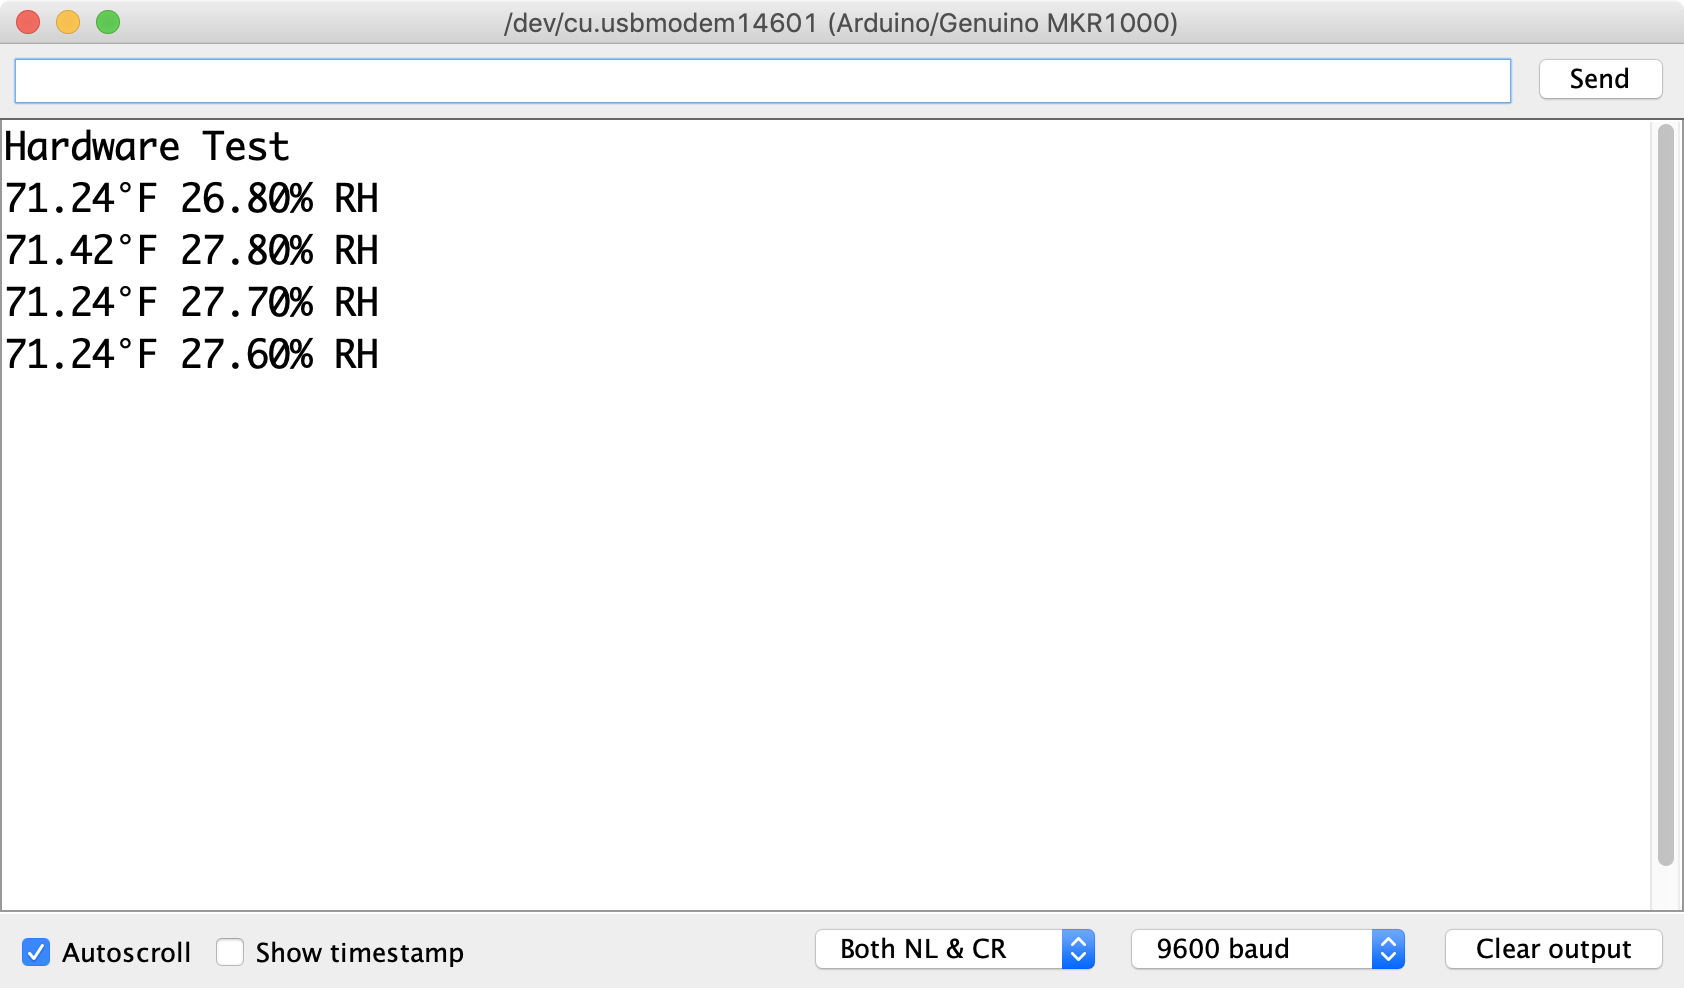
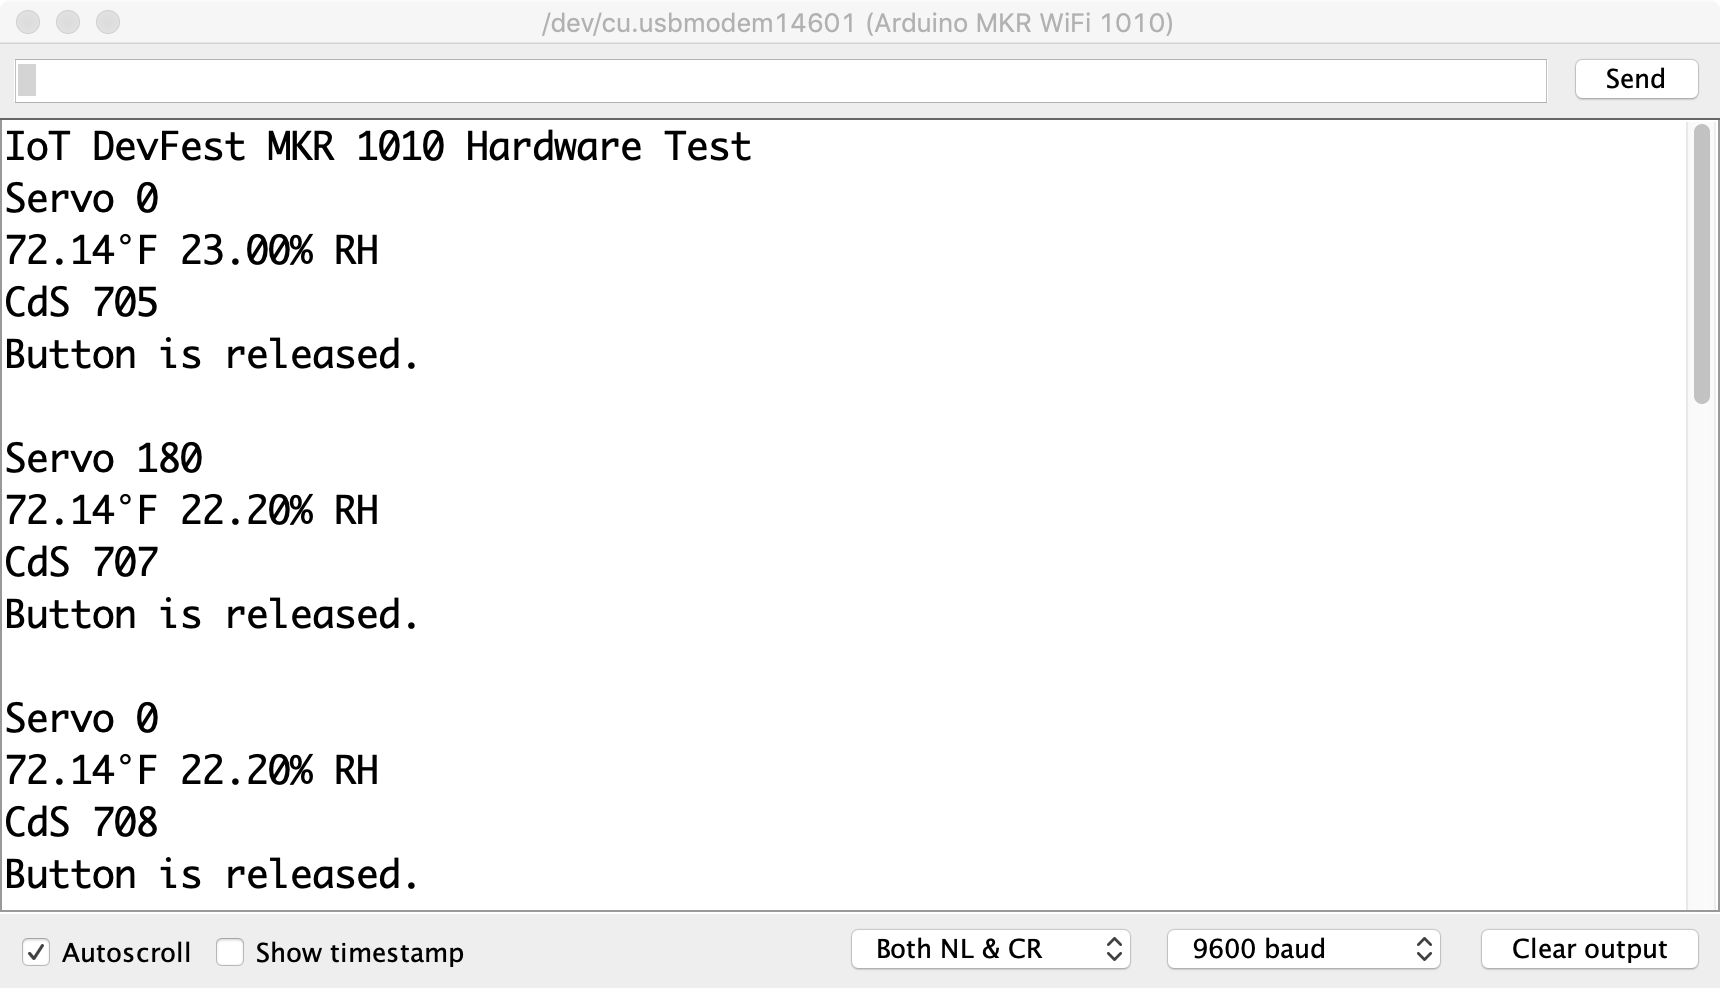
wiring from iot devfest

diff --git a/exercises/exercise2.md b/exercises/exercise2.md
@@ -1,5 +1,7 @@
 # Exercise 2: Assemble the Hardware
 
+Use the parts in the kit and assemble the hardware.
+
 ## Wiring
 
 ![Fritzing Diagram](images/wiring_bb.png)
@@ -7,17 +9,30 @@
 Suggested wiring instructions:
 
 1. Place the solderless breadboard with A1 on the bottom left.
-1. Plug the Arduino MKR WiFi 1000 into the breadboard with the 5V pin in C30.
-1. Plug the DHT-22 into J1.
-   * Use a red wire from the positive rail to F1
-   * Add a 10,000 &#937; resistor (brown, black, orange, gold) from the positive rail to F2.
-   * Place a black wire from the negative rail to F4
-   * Run a yellow wire from G2 to A18 which is pin 7 on the Arduino.
-1. Plug the LED into J9 and J10. Make sure the longer leg is in J10.
-   * Run a 220 &#937; or 330 &#937; resistor from the negative rail to F9
-   * Run a blue wire from F10 to A17 which is pin 6 on the Arduino.
-1. Run a black wire from A27 to the negative rail
-1. Run a red wire from A28 to the positive rail
+1. Plug the Arduino MKR WiFi 1010 into the breadboard with the 5V pin in B63.
+1. Plug the LED into E44 and E45. Make sure the longer leg is in E45.
+   * Run a 330 &#937; resistor (orange, orange, brown, gold) from the negative rail to D44.
+   * Run a blue wire from A45 to A50 which is pin 6 on the Arduino.
+1. Plug the CdS Photoresistor into G38 and G41.
+   * Use a red wire from the positive rail to F41.
+   * Put a 10,000 &#937; resistor (brown, black, orange, gold) from the negative rail to F38.
+   * Use a purple wire from I38 to J62 which is pin A0 on the Arduino.
+1. Plug the DHT-22 into J32.
+   * Use a red wire from the positive rail to F32.
+   * Put a 10,000 &#937; resistor (brown, black, orange, gold) from the positive rail to F33.
+   * Place a black wire from the negative rail to F35.
+   * Run a green wire from G33 to G53 which is pin 2 on the Arduino.
+1. Place a button into E25, E27, F25, and F27 on the breadboard.
+   * Use a red wire from the positive rail to A25.
+   * Use a yellow wire from G27 to J50 which is pin 5 on the Arduino.
+1. Pick up the Servo motor.
+   * Plug a black wire into the brown wire on the servo and connect it to the negative rail.
+   * Plug a red wire into the red wire on the servo and connect it to A63 which is the 5V pin on the Arduino.
+   * Plug an orange wire into the orange wire on the servo and connect it to A51 which is pin 7 on the Arduino.
+   * Note that only the servo is powered with 5 volts. Everything else uses 3.3 volts.
+1. Run a black wire from A60 to the negative rail.
+1. Run a red wire from the Arduino Vcc pin, A61, to the positive rail. The Vcc pin supplies 3.3 volts.
+
 
 ## Hardware Test
 
@@ -32,36 +47,6 @@ Suggested wiring instructions:
     * To restart the test, close the _Serial Monitor_ dialog and open it again.
 
 ![Arduino serial monitor with hardware test results](images/hardware-test.png)
-
-## Register MAC address with ITP Sandbox Network
-
-If you're using an Arduino from the ER you can skip this step. 
-
-In order to join the `itpsandbox` wireless network, the MAC address of the device must be registered with [NYU-NET](https://computer.registration.nyu.edu/). Use the [MacAddress sketch](../arduino/MacAddress/MacAddress.ino) to get the MAC address for your device. 
-
-[Tom Igoe's documentation](https://itp.nyu.edu/networks/tutorials/itp-network-connections/) has more details about the process.
-
-
-
-## Update TLS Certificates
-
-Skip this section if you're using a MKR WiFi 1010.
-
-The MKR1000 needs the root certifcates for any websites accessed via SSL. There is a utility to fetch and store these certificates.
-
-1. Open the WiFi101 FirmwareUpdater sketch _File -> Examples -> WiFi101 -> FirmwareUpdater_
-1. Upload the code to the board _Sketch -> Upload_
-1. Open the Firmware Updater _Tools -> WiFi101 / WiFiNINA Firmware Updater_
-1. Select the port of your MKR1000 in section 1
-1. Click the "Add Domain" button in section 3
-1. Enter "chariotday.com" and press the OK button
-1. Press the "Upload Certificates to WiFi module" button
-1. Wait for the success message
-
-![Arduino certificate tool screenshot](images/certificate-update.png)
-
-
-For more information see the Certificate Uploading section of the [WiFi101 Documentation](https://www.arduino.cc/en/Tutorial/FirmwareUpdater)
 
 ## Network Test
 

diff --git a/exercises/intro.md b/exercises/intro.md
@@ -1,0 +1,36 @@
+# Introduction
+
+Following the latest announcements at CES 2019, the leadership team of the company you are working at has asked you to prototype the hardware and firmware for a commercial grade smart toilet fleet. As usual, the sales team said they needed this system yesterday and there is huge customer demand for it from the Fortune 500 companies they are in contact with.
+
+![logo](images/logo.svg)
+
+The product manager in charge of the prototype has developed the following requirements:
+
+* Each smart toilet must connect over WiFi to a secure cloud environment
+* Push button flush (no one likes levers anymore, and cars have push button ignition)
+* Real-time statistics for temperature and humidity must be sent every 30 seconds (who doesn’t like fancy graphs).
+* Statistics on the number of flushes.
+* Remote flush and out of service control.
+
+There’s another team working on the backend system and dashboard, they’ve decided that the toilets need to use MQTT to communicate with backend. Along with certificate based TLS authorization (the de facto standard).
+
+Your colleagues at the local makerspace have suggested you use the new Arduino MKR WiFi 1010 for the prototype along with the following components:
+
+* MKR WiFi 1010
+  * Arduino’s latest WiFi enabled board, featuring 32 kB of RAM, 256 kB of flash, built-in WiFi, crypto chip on board!
+* Breadboard
+* Wires and resistors
+* LED
+* DHT-22 sensor
+* Photoresistor (for presence detection)
+* Servo (to control flushing).
+
+You haven’t used Arduino in a while, so first you decide to:
+
+* Acquaint yourself with the hardware and get the basics going
+* Learn how to connect the board to WiFi
+* Learn what MQTT is and how to connect your board to the server
+* Learn more about TLS and certificate based and how it applies
+* Combine everything together for a fully working prototype.
+
+Next [Exercise 1: Development Environment](exercise1.md)

diff --git a/README.md b/README.md
@@ -1,9 +1,10 @@
 # Arduino and MQTT
 
-Build an IoT device using an Arduino MKR1000 or Arduino MKR WiFi 1010.
+Build an IoT device using an Arduino MKR WiFi 1010.
 
 ## Exercises
 
+* [Intro](exercises/intro.md)
 * [Exercise 1: Development Environment](exercises/exercise1.md)
 * [Exercise 2: Assemble the Hardware](exercises/exercise2.md)
 * [Exercise 3: Sending data using MQTT](exercises/exercise3.md)
@@ -12,3 +13,9 @@ Build an IoT device using an Arduino MKR1000 or Arduino MKR WiFi 1010.
 * [Exercise 6: Sending Data to Arduino](exercises/exercise6.md)
 * [Exercise 7: Connecting using X.509 certs](exercises/exercise7.md)
 * [Exercise 8: Running the Prototype](exercises/exercise8.md)
+
+This workshop is based on content from 
+ * https://github.com/don/superconf-iot-workshop
+ * https://github.com/don/phillycodecamp
+ * https://github.com/don/iotdevfest
+ * https://github.com/don/ITP-DeviceToDatabase/tree/master/02_Arduino_MQTT

diff --git a/exercises/README.md b/exercises/README.md
@@ -1,5 +1,6 @@
 # Exercises
 
+* [Intro](intro.md)
 * [Exercise 1: Development Environment](exercise1.md)
 * [Exercise 2: Assemble the Hardware](exercise2.md)
 * [Exercise 3: Sending data using MQTT](exercise3.md)
